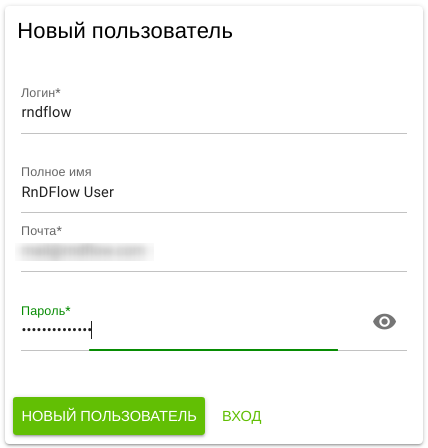
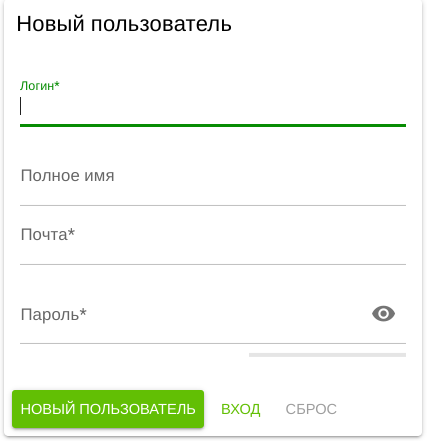
Add password reset info

diff --git a/src/instructions/README.md b/src/instructions/README.md
@@ -2,7 +2,7 @@
 
 ## Регистрация
 
-- Перейти по ссылке [https://server.rndflow.com/signin](https://server.rndflow.com/signin) или нажать кнопку **ВХОД** в верхнем правом углу [главной страницы](https://server.rndflow.com/) платформы.
+- Перейти по ссылке [https://server.rndflow.com/signup](https://server.rndflow.com/signup) или нажать кнопку **ВХОД** в верхнем правом углу [главной страницы](https://server.rndflow.com/) платформы.
 
   ![Signin](/images/common/signin.png)
 
@@ -44,6 +44,35 @@
 В этом случае после подтверждения регистрации пользователь получает письмо следующего вида:
 
 ![Registration audit letter](/images/common/registration_audit_wait.png)
+
+## Cброс пароля
+
+- Перейти по ссылке [https://server.rndflow.com/recovery](https://server.rndflow.com/recovery) или нажать кнопку **CБРОС** на панели страницы логина или регистрации.
+
+- Ввести корректный логин пользователя и его почтовый адрес.
+
+- Нажать кнопку **СБРОС**.
+
+![Password reset](/images/common/password_recovery.png)
+
+- При наличии активного пользователя с указанным логином и почтовым адресом будет отображено подтвержение запроса на сброс пароля.
+
+![Password reset message](/images/common/password_recovery_message.png)
+
+- На указанный почтовый ящик придет письмо с подтверждением на сброс пароля.
+
+![Password reset email](/images/common/password_recovery_email.png)
+
+- Для сброса пароля необходимо нажать на кнопку с надписью **Confirm your password reset request**.
+
+- Будет открыто окно с новым паролем 
+
+![Password reset email](/images/common/password_recovery_reset.png)
+
+- На указанный ранее почтовый ящик придет информация с подтверждением о завершении процедуры сброса пароля
+
+![Password reset email](/images/common/password_recovery_reset_email.png)
+
 
 
 ## Выход из платформы

diff --git a/src/admin/README.md b/src/admin/README.md
@@ -153,6 +153,10 @@
 
     При включенном<span class='iconify-inline' data-icon='bi:toggle-on' style="color: red"></span> переключателе пользователь обладает административными привилегиями.
 
+    ::: tip <span class="iconify" data-icon="mdi:information" style="color: #42b983; font-size: 24px;"></span>
+    Если пользователь с административными привилегиями осуществит сброс пароля согласно [инструкции][11], то информация об этом будет отослана всем другим пользователям с административными привилегиями.
+    :::
+
 ## Рабочие пространства
 
 Отображение списка существующих рабочих пространств.
@@ -214,3 +218,4 @@
 [8]: /docs/desc/finance.md#транзакции
 [9]: /docs/desc/finance.md#счета
 [10]: /docs/desc/payplan.html
+[11]: /docs/instructions/#cброс-пароля
